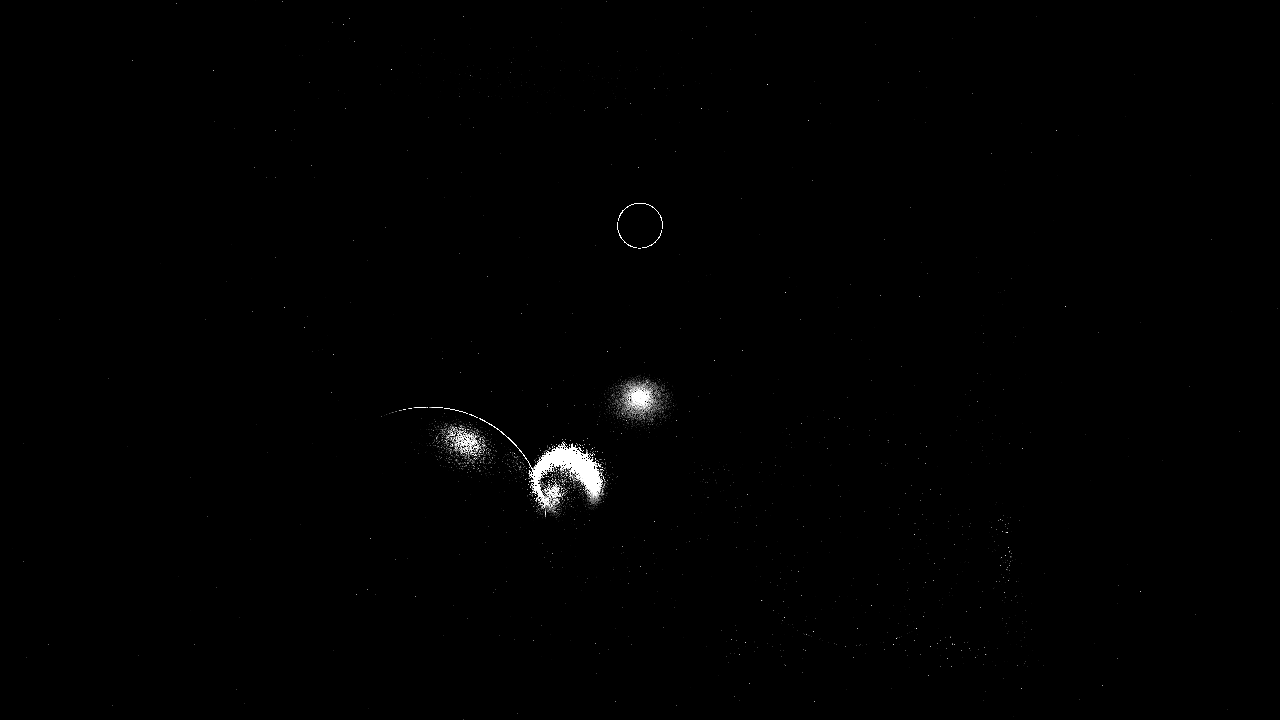
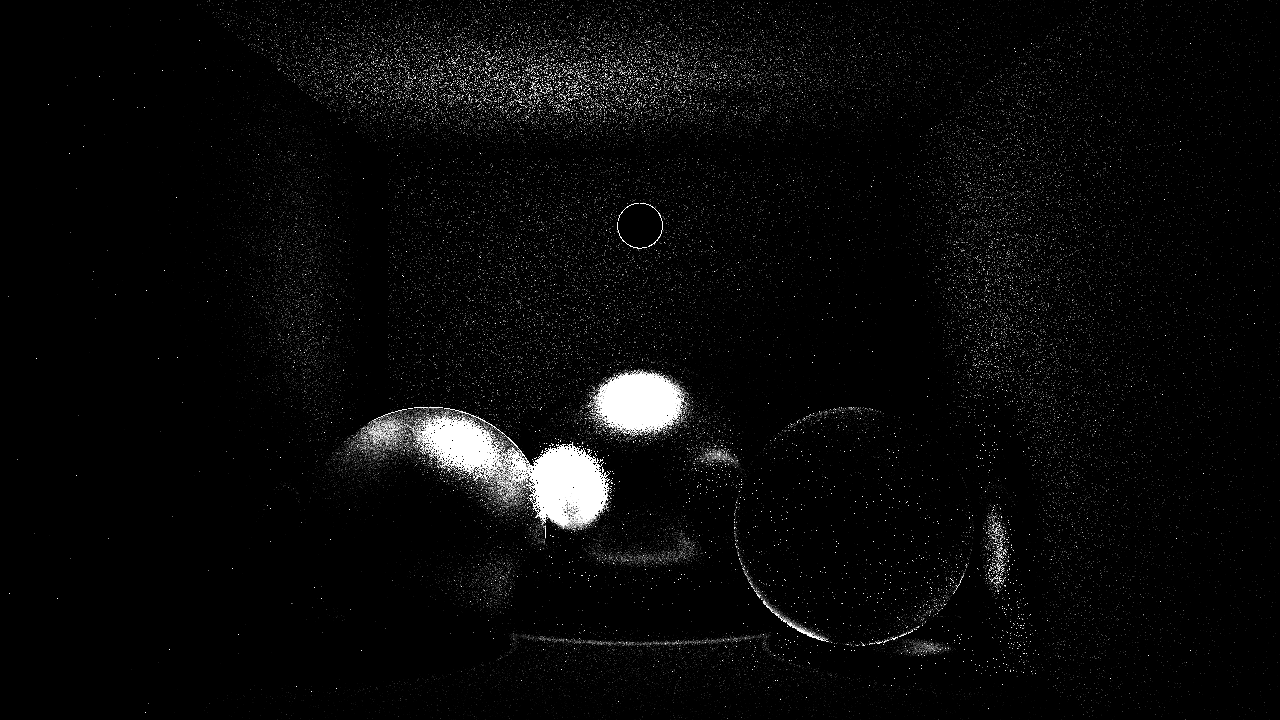
Hopefully made NEE correct

diff --git a/src/main.cpp b/src/main.cpp
@@ -208,39 +208,11 @@ Color tracePath(Ray ray)
         Vec3f nextEventShadowDir;
         if (light->GenerateSample(sInfo, nextEventShadowDir, nextEventInfo))
         {
-            const float sign{ (hInfo.N.Dot(nextEventShadowDir) > 0.0f) ? 1.0f : -1.0f };
+            const float sign{ hInfo.front ? 1.0f : -1.0f };
             const Ray nextEventShadowRay{ hInfo.p + (hInfo.N * 0.002f * sign), nextEventShadowDir };
             if (!renderer.TraceShadowRay(nextEventShadowRay, nextEventInfo.dist - 0.002f, HIT_FRONT_AND_BACK))
             {
                 const float cosThetaSurface{ std::max(0.0f, hInfo.N.Dot(nextEventShadowDir)) };
-                //if (cosThetaSurface > 0.0f && nextEventInfo.prob > 0.0f)
-                //{
-                //    const Color diffuse{ material->Diffuse().GetValue() };
-                //    //const Color specular{ material->specular().GetValue() };
-                //    //const float gloss{ material->glossiness().getvalue() };
-
-                //    Color brdf{ diffuse / M_PI };
-
-                //    const float cosThetaLight{ std::max(0.0f, nextEventInfo.norm.Dot(-nextEventShadowDir)) };
-                //    const float geometryTerm{ (cosThetaSurface * cosThetaLight) / (nextEventInfo.dist * nextEventInfo.dist) };
-
-                //    //const Vec3f h{ (nextEventShadowDir - ray.dir).GetNormalized() };
-                //    //const float blinnTerm{ std::max(0.0f, hInfo.N.Dot(h)) };
-                //    //if (blinnTerm > 0.0f)
-                //    //    brdf += specular * ((gloss + 2.0f) / (8.0f * M_PI)) * pow(blinnTerm, gloss);
-
-                //    //DirSampler::Info shadowDirSampleInfo;
-                //    //material->GetSampleInfo(sInfo, nextEventShadowDir, shadowDirSampleInfo);
-                //    //const float denom{ std::max(1e-5f, nextEventInfo.mult.Gray()) };
-                //    //const float conversionFormula{ light->Intensity().Gray() / denom };
-                //    //const float lightSolidProb{ nextEventInfo.prob * conversionFormula };
-                //    //const float nextEventProbSquared{ lightSolidProb * lightSolidProb };
-                //    //const float shadowDirSampleProbSquared{ shadowDirSampleInfo.prob * shadowDirSampleInfo.prob };
-                //    //const float weight{ nextEventProbSquared / (nextEventProbSquared + shadowDirSampleProbSquared) };
-
-                //    //result += ((nextEventInfo.mult * brdf * cosThetaSurface) / nextEventInfo.prob) * weight * throughput;
-                //    result += (brdf * nextEventInfo.mult * geometryTerm) / nextEventInfo.prob;
-                //}
                 if (cosThetaSurface > 0.0f && nextEventInfo.prob > 0.0f)
                 {
                     const Color diffuse{ material->Diffuse().GetValue() };
@@ -251,7 +223,7 @@ Color tracePath(Ray ray)
                     const Vec3f h{ (nextEventShadowDir - ray.dir).GetNormalized() };
                     const float blinnTerm{ std::max(0.0f, hInfo.N.Dot(h)) };
                     if (blinnTerm > 0.0f)
-                        brdf += specular * ((gloss + 2.0f) / (8.0f * M_PI)) * pow(blinnTerm, gloss);
+                        brdf += specular * ((gloss * 2.0f) / (2.0f * Pi<float>())) * pow(blinnTerm, gloss);
 
                     result += (brdf * nextEventInfo.mult * cosThetaSurface) / nextEventInfo.prob * throughput;
                 }

diff --git a/src/materials.h b/src/materials.h
@@ -220,38 +220,22 @@ public:
         if (randomNum < diffuseProb)
         {
             si.lobe = DirSampler::Lobe::DIFFUSE;
-            //const float geometryTerm{ sInfo.N() % sInfo.V() };
-            //si.mult = diffuse.GetValue() * geometryTerm / static_cast<float>(M_PI);
-            //si.prob /= 2.0f * M_PI;
 
             // Direction
             const float r1{ sInfo.RandomFloat() };
             const float r2{ sInfo.RandomFloat() };
             const float cosTheta{ sqrtf(1.0f - r2) };
             const float sinTheta{ sqrtf(r2) };
-            const float phi{ 2.0f * M_PI * r1 };
+            const float phi{ 2.0f * Pi<float>() * r1 };
             const Vec3f localDir{ sinTheta * cosf(phi), sinTheta * sinf(phi), cosTheta };
             const Vec3f helper{ (std::abs(sInfo.N().x) > 0.9f) ? Vec3f{ 0.0f, 1.0f, 0.0f } : Vec3f{ 1.0f, 0.0f, 0.0f } };
             const Vec3f tangent{ helper.Cross(sInfo.N()).GetNormalized() };
             const Vec3f bitangent{ sInfo.N().Cross(tangent).GetNormalized() };
             dir = (tangent * localDir.x) + (bitangent * localDir.y) + (sInfo.N() * localDir.z);
+
             dir.Normalize();
-            si.prob = cosTheta * (1.0f / M_PI) * diffuseProb;
-            si.mult = diffuse.GetValue() * (cosTheta * (1.0f / M_PI));
-            //const float phi{ 2.0f * M_PI * r2 };
-            //const float z{ sqrtf(r1) };
-            //const float sinTheta{ sqrtf(1.0f - r1) };
-            //const float x{ sinTheta * cos(phi) };
-            //const float y{ sinTheta * sin(phi) };
-
-            //Vec3f u, v;
-            //sInfo.N().GetOrthonormals(u, v);
-            //dir = (x * u) + (y * v) + (z * sInfo.N());
-
-            ////si.mult = diffuse.GetValue() / diffuseProb;
-            //si.mult = diffuse.GetValue() / diffuseProb;
-            ////si.prob = diffuseProb * (z / static_cast<float>(M_PI));
-            //si.prob = diffuseProb * (z / static_cast<float>(M_PI));
+            si.prob = cosTheta / Pi<float>() * diffuseProb;
+            si.mult = diffuse.GetValue() * (cosTheta / Pi<float>());
 
             return true;
         }

diff --git a/src/lights.h b/src/lights.h
@@ -244,13 +244,13 @@ public:
     //        //return false;
 
     //    //intensity / (Pi<float>()*size*size)
-    //    //si.mult = intensity * (static_cast<float>(M_PI) / (si.dist * si.dist));
+    //    si.mult = intensity * (static_cast<float>(M_PI) / (si.dist * si.dist));
     //    //si.mult = intensity * (static_cast<float>(M_PI) / (si.dist * si.dist));
     //    //si.mult = intensity / (si.dist * si.dist);
     //    //si.mult = Radiance(sInfo) * (Pi<float>() / (si.dist * si.dist));
     //    //si.mult = Radiance(sInfo);
     //    //si.mult = intensity / (si.dist * si.dist);
-    //    si.mult = Radiance(sInfo);
+    //    //si.mult = Radiance(sInfo);
     //    si.prob = 1.0f / (2.0f * Pi<float>() * size * size);
 
     //    return true;
@@ -284,8 +284,10 @@ public:
         si.dist = adjacent - tOffset;
 
         dir = (x * u) + (y * v) + (z * dirMatToCenter);
-        si.mult = Radiance(sInfo);
-        si.prob = 1.0f / (2.0f * Pi<float>() * (1.0f - cosThetaMax));
+        //si.mult = Radiance(sInfo);
+        si.mult = intensity;
+        const float oneMinusCosThetaMax = (sinThetaMax * sinThetaMax) / (1.0f + cosThetaMax);
+        si.prob = 1.0f / (2.0f * Pi<float>() * oneMinusCosThetaMax);
 
         return true;
     }
